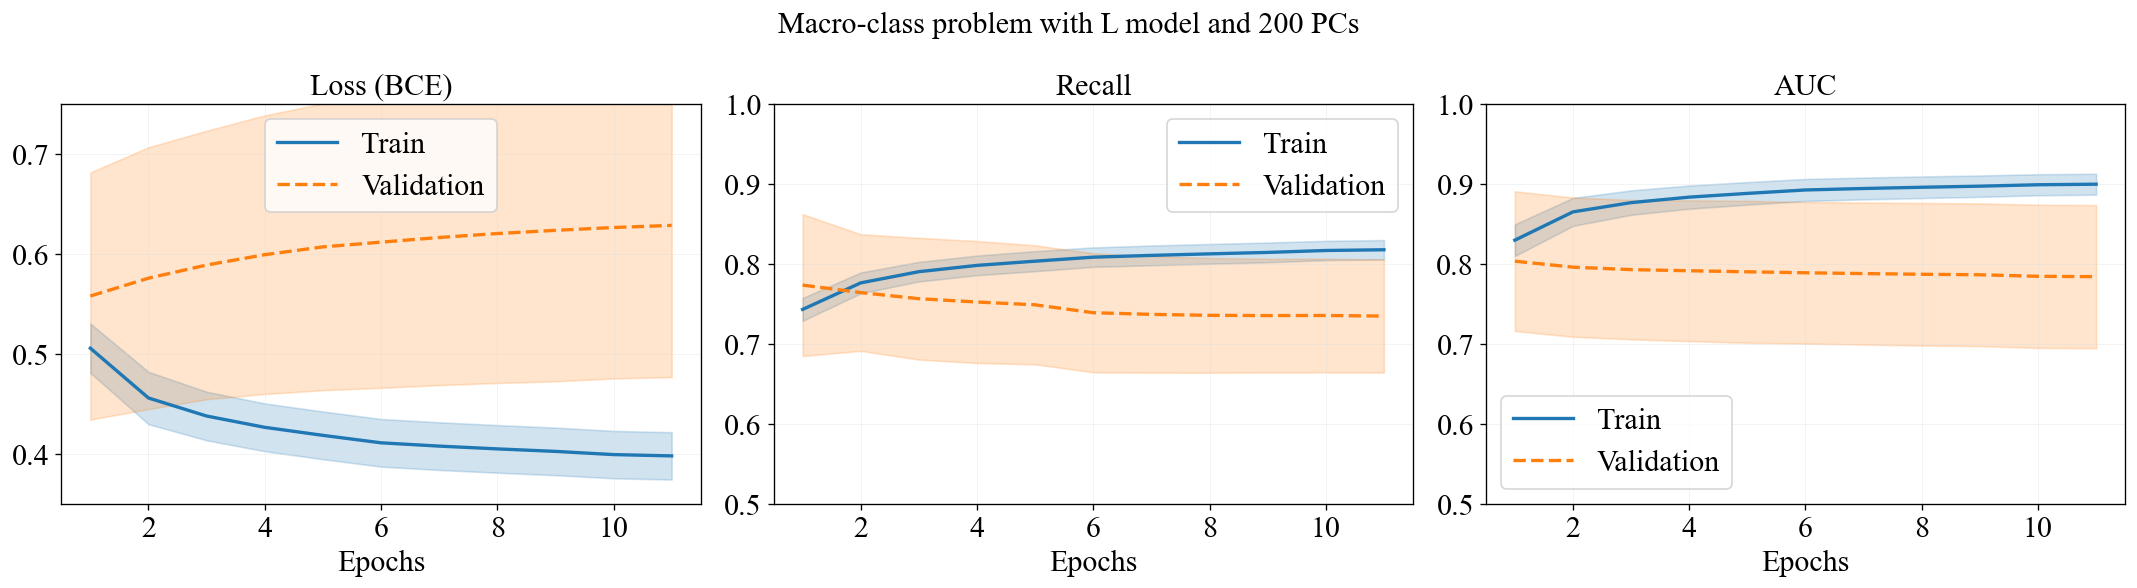
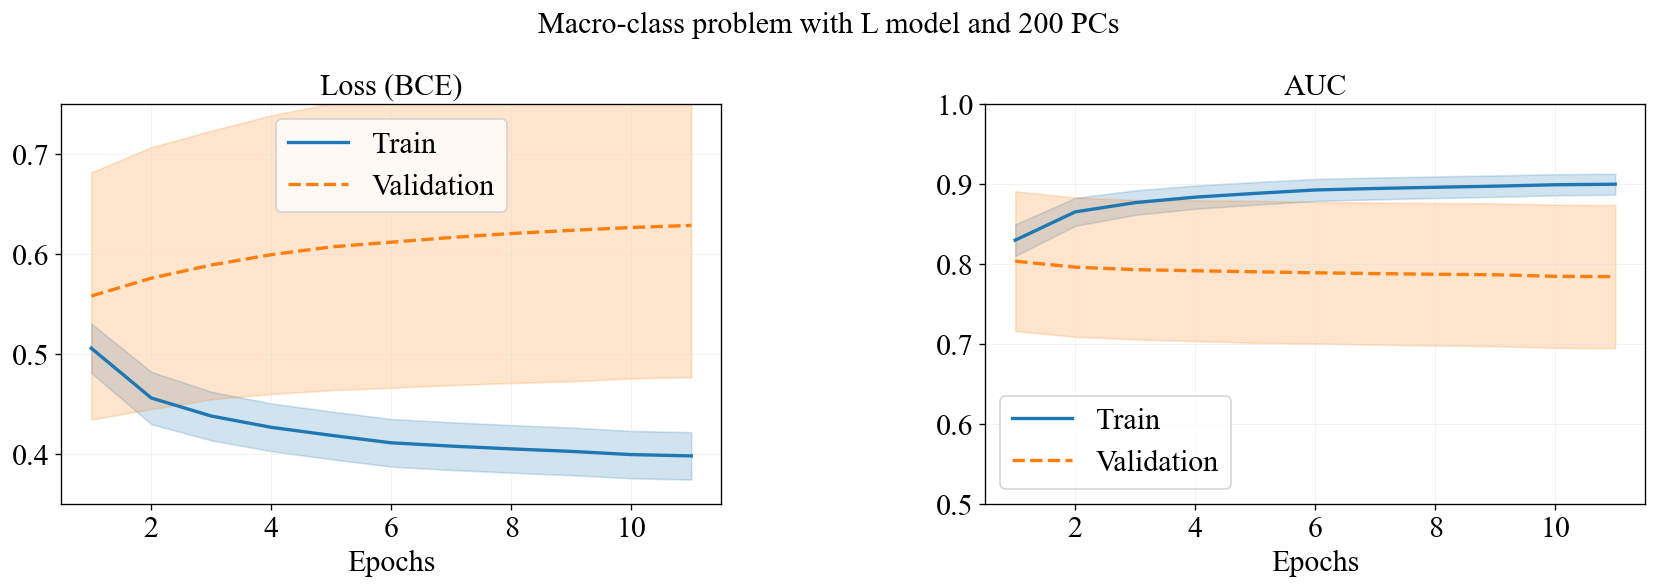
(Claudio) Ch5: aggregate results, not finished

diff --git a/Chapters/Ch_5.tex b/Chapters/Ch_5.tex
@@ -130,11 +130,11 @@ The comparison of the tested configurations showed comparable results for all th
     \label{fig:heatmap_auc_singleclass}
 \end{figure}
 
-Although some configurations with more components or larger networks obtained equally good scores for AUC, their training curves showed less stable behaviour and a larger discrepancy between training and validation performance which also increased with the epochs. These behavior, exemplified by \cref{fig:overfitting_example_L200} is a clear sign of overfitting. The small model, on the contrary, showed similar training and validation curves for all the considered metrics (loss, recall and AUC). These curves improved regularly in the early stages of training until reaching a plateau after $\sim15$ epochs on average
+Although some configurations with more components or larger networks obtained equally good scores for AUC, their training curves showed less stable behaviour and a larger discrepancy between training and validation performance which also increased with the epochs. These behavior, exemplified by \cref{fig:overfitting_example_L200} is a clear sign of overfitting. The small model, on the contrary, showed similar behaviors in training and validation for all the considered metrics (\cref{sec:aggregated_classification_results}) and was therefore prefered as a final choice.
 
 \begin{figure}[h]
     \centering
-    \includegraphics[width=\textwidth]{Images/images_ch_5/overfitting_example_L200.png}
+    \includegraphics[width=0.7\textwidth]{Images/images_ch_5/overfitting_example_L200.png}
     \caption{Training and validation curves for the large architecture (L) with \(200\) retained PCA components on the macro-class problem (\textit{tumor} vs. \textit{healthy}). The lines show the average value of the metric across 5 folds, while shaded areas display $\pm\sigma$ from the average. The growing separation between training and validation curves is a sign of overfitting.}
     \label{fig:overfitting_example_L200}
 \end{figure}
@@ -165,6 +165,20 @@ The decision threshold used to convert the predicted probability into a binary l
 
 \section{Aggregated classification results}
 \label{sec:aggregated_classification_results}
+
+The configurations chosen for the two approaches, listed in \cref{tab:selected_hyperparameters} were further analized to asses their effectiveness.
+
+The confusion matrixes and ROC curves showed good results for both problems. The macro-class approach performed slightly below the single-class one, especially in non-tumoral classification (True negatives scores equaled 0.71 and 0.75 respectively). This is a direct consequence of the internal heterogeneity for the healthy class.
+
+%talk about roc and auc per sample
+
+%show graphs of CM, roc, auc
+
+
+The training behavior was observed to be 
+The curves for the single class improved regularly in the early stages of training until reaching a plateau after $\sim20$ epochs on average.
+
+%talk more about curves and show curves
 
 \textbf{Writing notes.} This section should report the quantitative performance obtained across folds. Here the two experiments should probably be compared in parallel, using the same metrics.
 
